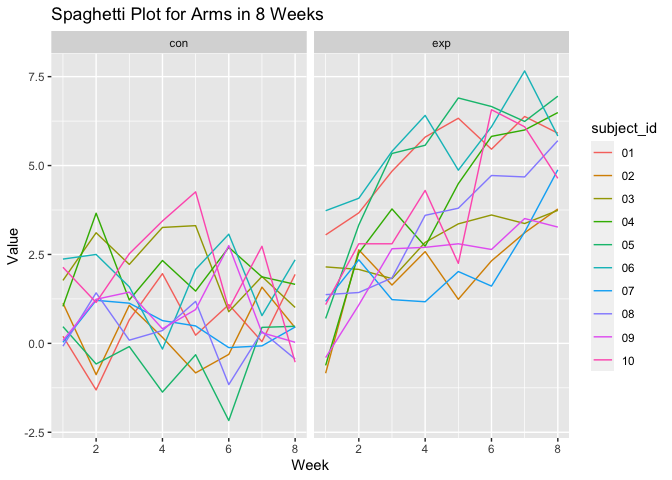
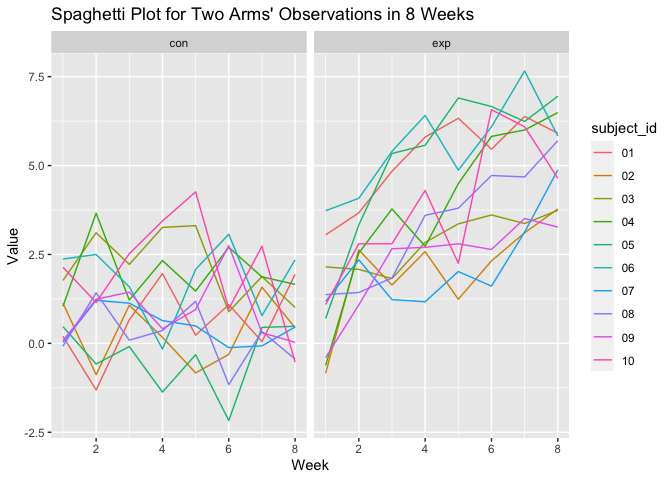
Complete the homework 5.

Changed region(s): [[0.2812, 0.0, 0.7188, 0.0625]]

diff --git a/p8105_hw5_yz4182.md b/p8105_hw5_yz4182.md
@@ -29,19 +29,10 @@ homicides and the number of unsolved homicides (those for which the
 disposition is “Closed without arrest” or “Open/No arrest”).
 
 ``` r
-homicide_df = 
+# input row data
+homicide_row = 
   read_csv("./data/homicide-data.csv", na = c("", "Unknown")) %>% 
-  janitor::clean_names() %>% 
-  mutate(
-    city_state = str_c(city, state),
-    resolution = case_when(
-      disposition == "Closed without arrest" ~ "unsolved",
-      disposition == "Open/No arrest" ~ "unsolved",
-      disposition == "Closed by arrest" ~ "solved",
-    )
-         ) %>% 
-  relocate(city_state) %>% 
-  filter(city_state != "TulsaAL")
+  janitor::clean_names()
 ```
 
     ## Rows: 52179 Columns: 12
@@ -55,11 +46,31 @@ homicide_df =
     ## ℹ Use `spec()` to retrieve the full column specification for this data.
     ## ℹ Specify the column types or set `show_col_types = FALSE` to quiet this message.
 
-For the city of Baltimore, MD, use the prop.test function to estimate
-the proportion of homicides that are unsolved; save the output of
-prop.test as an R object, apply the broom::tidy to this object and pull
-the estimated proportion and confidence intervals from the resulting
-tidy dataframe.
+``` r
+homicide_df =
+  homicide_row %>% 
+  mutate(
+    city_state = str_c(city, state),
+    resolution = case_when(
+      disposition == "Closed without arrest" ~ "unsolved",
+      disposition == "Open/No arrest" ~ "unsolved",
+      disposition == "Closed by arrest" ~ "solved",
+    )                                                  # create a city_state variable
+         ) %>% 
+  relocate(city_state) %>% 
+  filter(city_state != "TulsaAL")
+```
+
+The row data contains 12 variables and 52179 observations. The variable
+names are uid, reported\_date, victim\_last, victim\_first,
+victim\_race, victim\_age, victim\_sex, city, state, lat, lon,
+disposition
+
+Now, for the city of Baltimore, MD, use the prop.test function to
+estimate the proportion of homicides that are unsolved; save the output
+of prop.test as an R object, apply the broom::tidy to this object and
+pull the estimated proportion and confidence intervals from the
+resulting tidy dataframe.
 
 ``` r
 baltimore_df =
@@ -90,7 +101,7 @@ baltimore_test %>%
     ##      <dbl>     <dbl>    <dbl>     <int>    <dbl>     <dbl> <chr>     <chr>      
     ## 1    0.646      239. 6.46e-54         1    0.628     0.663 1-sample… two.sided
 
-Now run prop.test for each of the cities in your dataset, and extract
+Let’s run prop.test for each of the cities in your dataset, and extract
 both the proportion of unsolved homicides and the confidence interval
 for each. Do this within a “tidy” pipeline, making use of purrr::map,
 purrr::map2, list columns and unnest as necessary to create a tidy
@@ -171,16 +182,13 @@ nested_df %>%
 
 ## Problem 2
 
-Create a tidy dataframe containing data from all participants, including
-the subject ID, arm, and observations over time:
+In this problem, I create a tidy dataframe containing data from all
+participants, including the subject ID, arm, and observations over time:
 
 Start with a dataframe containing all file names.Iterate over file names
 and read in data for each subject using purrr::map and saving the result
-as a new variable in the dataframe.
-
-Tidy the result; manipulate file names to include control arm and
-subject ID, make sure weekly observations are “tidy”, and do any other
-tidying that’s necessary.
+as a new variable in the dataframe. Manipulate file names to include
+control arm and subject ID,
 
 ``` r
 # make function to read data in files
@@ -205,7 +213,7 @@ longitudinal_df =
     files, into = c("arm", "subject_id", sep = "_")) %>%            # add participants variable
   mutate(
     observations = map(path, read_data_function)) %>% 
-  select(-"_")
+  select(arm, subject_id, observations)
 ```
 
     ## Warning: Expected 3 pieces. Missing pieces filled with `NA` in 20 rows [1, 2, 3,
@@ -416,29 +424,29 @@ longitudinal_df =
 longitudinal_df
 ```
 
-    ## # A tibble: 20 × 4
-    ##    arm   subject_id path      observations         
-    ##    <chr> <chr>      <list>    <list>               
-    ##  1 con   01         <chr [1]> <spec_tbl_df [1 × 8]>
-    ##  2 con   02         <chr [1]> <spec_tbl_df [1 × 8]>
-    ##  3 con   03         <chr [1]> <spec_tbl_df [1 × 8]>
-    ##  4 con   04         <chr [1]> <spec_tbl_df [1 × 8]>
-    ##  5 con   05         <chr [1]> <spec_tbl_df [1 × 8]>
-    ##  6 con   06         <chr [1]> <spec_tbl_df [1 × 8]>
-    ##  7 con   07         <chr [1]> <spec_tbl_df [1 × 8]>
-    ##  8 con   08         <chr [1]> <spec_tbl_df [1 × 8]>
-    ##  9 con   09         <chr [1]> <spec_tbl_df [1 × 8]>
-    ## 10 con   10         <chr [1]> <spec_tbl_df [1 × 8]>
-    ## 11 exp   01         <chr [1]> <spec_tbl_df [1 × 8]>
-    ## 12 exp   02         <chr [1]> <spec_tbl_df [1 × 8]>
-    ## 13 exp   03         <chr [1]> <spec_tbl_df [1 × 8]>
-    ## 14 exp   04         <chr [1]> <spec_tbl_df [1 × 8]>
-    ## 15 exp   05         <chr [1]> <spec_tbl_df [1 × 8]>
-    ## 16 exp   06         <chr [1]> <spec_tbl_df [1 × 8]>
-    ## 17 exp   07         <chr [1]> <spec_tbl_df [1 × 8]>
-    ## 18 exp   08         <chr [1]> <spec_tbl_df [1 × 8]>
-    ## 19 exp   09         <chr [1]> <spec_tbl_df [1 × 8]>
-    ## 20 exp   10         <chr [1]> <spec_tbl_df [1 × 8]>
+    ## # A tibble: 20 × 3
+    ##    arm   subject_id observations         
+    ##    <chr> <chr>      <list>               
+    ##  1 con   01         <spec_tbl_df [1 × 8]>
+    ##  2 con   02         <spec_tbl_df [1 × 8]>
+    ##  3 con   03         <spec_tbl_df [1 × 8]>
+    ##  4 con   04         <spec_tbl_df [1 × 8]>
+    ##  5 con   05         <spec_tbl_df [1 × 8]>
+    ##  6 con   06         <spec_tbl_df [1 × 8]>
+    ##  7 con   07         <spec_tbl_df [1 × 8]>
+    ##  8 con   08         <spec_tbl_df [1 × 8]>
+    ##  9 con   09         <spec_tbl_df [1 × 8]>
+    ## 10 con   10         <spec_tbl_df [1 × 8]>
+    ## 11 exp   01         <spec_tbl_df [1 × 8]>
+    ## 12 exp   02         <spec_tbl_df [1 × 8]>
+    ## 13 exp   03         <spec_tbl_df [1 × 8]>
+    ## 14 exp   04         <spec_tbl_df [1 × 8]>
+    ## 15 exp   05         <spec_tbl_df [1 × 8]>
+    ## 16 exp   06         <spec_tbl_df [1 × 8]>
+    ## 17 exp   07         <spec_tbl_df [1 × 8]>
+    ## 18 exp   08         <spec_tbl_df [1 × 8]>
+    ## 19 exp   09         <spec_tbl_df [1 × 8]>
+    ## 20 exp   10         <spec_tbl_df [1 × 8]>
 
 Then I tidy the results.
 
@@ -446,8 +454,7 @@ Then I tidy the results.
 #unnest the list variable
 unnest_df =
   longitudinal_df %>% 
-  unnest(cols = "observations") %>% 
-  select(-path)
+  unnest(cols = "observations")
 
 # show table
 knitr::kable(unnest_df)
@@ -480,6 +487,7 @@ Make a spaghetti plot showing observations on each subject over time,
 and comment on differences between groups.
 
 ``` r
+# first make the observation data tidy
 plot_df =
   unnest_df %>% 
   pivot_longer(
@@ -489,6 +497,25 @@ plot_df =
     values_to = "obs_value"
   ) 
 
+plot_df
+```
+
+    ## # A tibble: 160 × 4
+    ##    arm   subject_id week  obs_value
+    ##    <chr> <chr>      <chr>     <dbl>
+    ##  1 con   01         1          0.2 
+    ##  2 con   01         2         -1.31
+    ##  3 con   01         3          0.66
+    ##  4 con   01         4          1.96
+    ##  5 con   01         5          0.23
+    ##  6 con   01         6          1.09
+    ##  7 con   01         7          0.05
+    ##  8 con   01         8          1.94
+    ##  9 con   02         1          1.13
+    ## 10 con   02         2         -0.88
+    ## # … with 150 more rows
+
+``` r
 # make spaghetti plot
 plot_df %>% 
   group_by(arm) %>% 
@@ -496,13 +523,18 @@ plot_df %>%
   geom_line() +
   facet_grid(.~arm) +
   labs(
-    title = "Spaghetti Plot for Arms in 8 Weeks",
+    title = "Spaghetti Plot for Two Arms' Observations in 8 Weeks",
     x = "Week",
     y = "Value",
     ) 
 ```
 
 ![](p8105_hw5_yz4182_files/figure-gfm/unnamed-chunk-9-1.png)<!-- -->
+
+Comments: The plot shows higher observation values on patients in
+experimental arm than control arm. With time goes by, observation values
+tends to increase in experimental arm, while observation values tends to
+keep the same in control arm.
 
 ## Problem 3
 
@@ -518,6 +550,7 @@ non-missing values. For character variables, fill in missing values with
 “virginica”.
 
 ``` r
+# data input
 set.seed(10)
 
 iris_with_missing = iris %>% 
@@ -528,6 +561,7 @@ iris_with_missing = iris %>%
 Create missing data function
 
 ``` r
+# create a function to fill the missing data
 fill_in_missing = function(vector) {
   
   if (is.numeric(vector)) {
@@ -553,9 +587,11 @@ fill_in_missing = function(vector) {
 Mapping the missing data
 
 ``` r
+# map the function to the dataset
 iris_without_missing =
   map_df(.x = iris_with_missing, ~ fill_in_missing(.x))
 
+# show the results
 iris_without_missing
 ```
 
